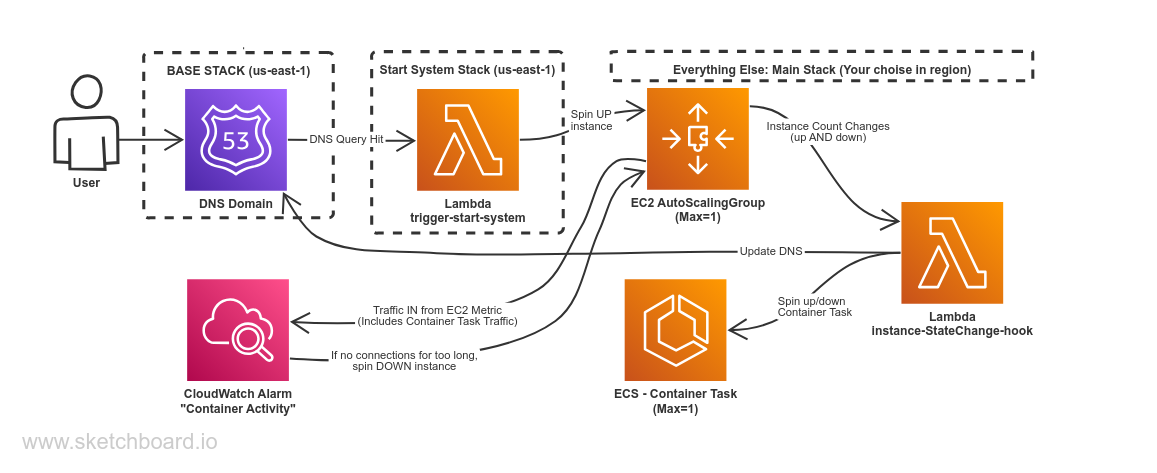
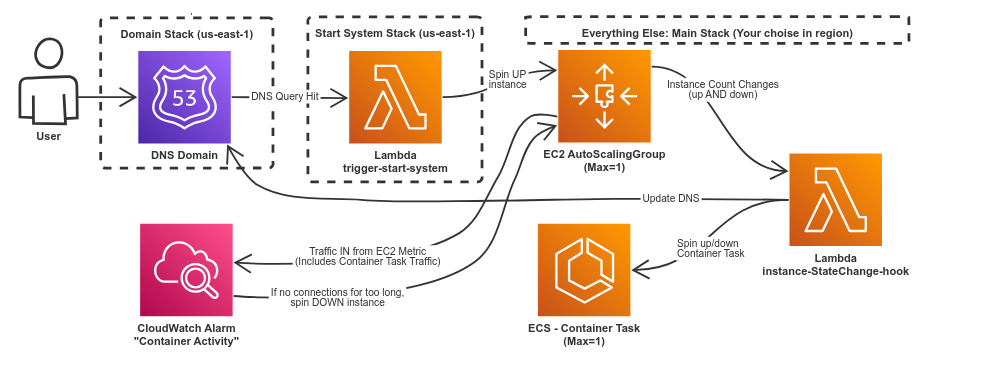
README updates to the hosted zone change

Changed region(s): [[0.0, 0.0297, 0.9375, 0.9514]]

diff --git a/app.py b/app.py
@@ -116,7 +116,7 @@ if file_path:
 
     start_system_stack = StartSystemStack(
         app,
-        f"{application_id}-{container_id_alpha}-StartSystemStack",
+        f"{application_id}-{container_id_alpha}-StartSystem",
         description="Everything for spinning up the container when someone connects.",
         cross_region_references=True,
         env=us_east_1_env,

diff --git a/ContainerManager/README.md b/ContainerManager/README.md
@@ -1,16 +1,14 @@
 # Container Manager
 
-This is designed so you only need one base stack that you deploy first, then you can deploy any number of leaf stacks on it. This lets you modify one leaf/container stack, without affecting the rest, and still have shared resources to reduce cost/complexity where appropriate.
+This is designed so you only need one base stack that you deploy first, then you can deploy any number of "leaf stack groups" on it. (A single leaf-stack-group is for managing a single container). This lets you modify one leaf-stack-group, without affecting the rest, and still have shared resources to reduce cost/complexity where appropriate.
 
-**Note**: The word `Stack` is overloaded here. Both the "base" and "leaf" stacks each contain two stacks inside them (one in a region of your choice, and one in `us-east-1` for Route53). There's just no better word, "app" is the entire project.
-
-- The [./leaf_stack](./leaf_stack/README.md) is what runs a single container. One `leaf_stack` for one container.
-- The [./base_stack](./base_stack/README.md) is common architecture that different containers can share (i.e VPC, HostedZone). Multiple "Leaf Stacks" can point to the same "Base Stack".
+- The [./leaf_stack_group](./leaf_stack_group/README.md) is what runs a single container. One `leaf_stack_group` for one container. It contains **three** stacks in the group.
+- The [./base_stack](./base_stack/README.md) is common architecture that different containers can share (i.e VPC, HostedZone). Multiple "Leaf Stack Groups" can point to the same "Base Stack".
 - The [./utils](./utils/README.md) are functions that don't fit in the other two. Mainly config readers/parsers.
 
 Click here to jump to '[Base Stack Config Options](#base-stack-config-options)'. It's the last section, since it's the longest.
 
-## Leaf Stack Summary
+## Leaf Stack Group Summary
 
 ![picture](/Resources/AWS-ContainerManager_Basic_Diagram.png)
 <!-- Original board: https://sketchboard.me/REucJJtlrBCi#/ -->
@@ -19,7 +17,7 @@ Click here to jump to '[Base Stack Config Options](#base-stack-config-options)'.
 
 The system is designed all around the Auto Scaling Group (ASG). This way, if the ASG spins up in any way (DNS query comes in, or you change the desired_count in the console), everything spins up around it. If a alarm triggers, it just has to spin the ASG back down and everything will naturally follow suit.
 
-See the [leaf_stack's README.md](./leaf_stack/README.md) for more info.
+See the [leaf_stack_group's README.md](./leaf_stack_group/README.md) for more info.
 
 ## Moving Variables between the Stacks (cross-region)
 

diff --git a/ContainerManager/leaf_stack_group/README.md b/ContainerManager/leaf_stack_group/README.md
@@ -1,12 +1,14 @@
-# Leaf Stack - Container Manager Core
+# Leaf Stack Group - Container Manager Core
 
-This is the core of the Container Manager. It's the AWS Architecture that runs the container, along with spinning it up/down when needed. Multiple `leaf_stack`'s can be deployed together, one for each each container.
+This is the core of the Container Manager. It's the AWS Architecture that runs the container, along with spinning it up/down when needed. Multiple `leaf_stack_group`'s can be deployed together, one for each each container.
+
+Each `leaf_stack_group` is made up of three stacks, working together to manage a single container.
 
 A simple TLDR diagram can be found back one level in [../README.md](../README.md#leaf-stack-summary)
 
 ## CDK Architecture
 
-How the leaf stack links together and works:
+How the leaf stack links together and work (View this in GitHub directly for zoom controls and everything):
 
 ```mermaid
 %% Solid docs on Mermaid: https://content.mermaidchart.com/diagram-syntax/flowchart/
@@ -24,17 +26,17 @@ flowchart TD
 
     user-connects["🧑🤝🧑 User Connects 🧑🤝🧑"]
 
-    %% BASE STACK DOMAIN SUBGRAPH
-    subgraph base_stack_domain["**BaseStack-Domain**"]
-        subgraph base_stack_domain_inner["(us-east-1)"]
+    %% DOMAIN STACK SUBGRAPH
+    subgraph domain_stack["**domain_stack.py**"]
+        subgraph domain_stack_inner["(us-east-1)"]
             sub-hosted-zone[Sub Hosted Zone]
             query-log-group[Query Log Group]
 
             sub-hosted-zone --" Writes Log "--> query-log-group
         end
     end
-    class base_stack_domain blue_outer
-    class base_stack_domain_inner blue_inner
+    class domain_stack blue_outer
+    class domain_stack_inner blue_inner
     user-connects --" DNS Query "--> sub-hosted-zone
 
     %% START SYSTEM STACK SUBGRAPH
@@ -140,9 +142,11 @@ flowchart TD
 
 ## Stack Summaries
 
-### [Base Stack Domain](../base_stack/README.md) (Blue)
+Below are the three "stacks" part of the "leaf_stack_group" that are deployed to run a single container. It's also the order they're deployed, to fix a circular dependency issue with the regions specific pieces have to be.
 
-This is apart of the base stack, but heavily used here. Follow that link to read more.
+### [./domain_stack.py](./domain_stack.py) Stack (Blue)
+
+This stack sets up the Hosted Zone and DNS for the leaf_stack_group. This stack MUST be deployed to `us-east-1` since that's where AWS houses Route53.
 
 ### [./NestedStacks](./NestedStacks/) Leaf Stack (Red)
 

diff --git a/ContainerManager/base_stack/README.md b/ContainerManager/base_stack/README.md
@@ -2,16 +2,11 @@
 
 This is common architecture between leaf-stacks, combined to reduce costs and complexity.
 
-## Base Stack Main ([main.py](./main.py))
+## Base Stack ([./main.py](./main.py))
 
 Deployed to the same region as you want to run the containers from.
 
 - **VPC**: The overall network for all the containers and EFS. We used a public VPC, because private cost ~$32/month per subnet (because of the NAT). WITH ec2 costs, I want to shoot for less than $100/year with solid usage.
 - **SSH Key Pair**: The key pair to SSH into the EC2 instances. Keeping it here lets you get into all the leaf_stacks without having to log into AWS each time you deploy a new leaf. If you destroy and re-build the leaf, this keeps the key consistent too.
 - **SNS Notify Logic**: Designed for things admin would care about. This tells you whenever the instance spins up or down, if it runs into errors, etc.
-
-## Base Stack Domain ([domain.py](./domain.py))
-
-Deployed to `us-east-1`, since Route53 logs can only go there.
-
-- **Route53 HostedZone**: The base domain for all the leaf stacks. This is where the DNS records will be created for each leaf stack. The leaf stacks add their DNS record to this, and watch this log group for when their specific DNS record gets a query.
+- **Hosted Zone**: *Imports* a hosted zone into this stack. This way you only need one domain, and sub-domains are created off it. Each LeafStackGroup will still need to create their own HostedZone, because otherwise it can only hold a max of two sub-domains. (We use a log-group subscription filter to know when to spin up on a DNS hit, and you can only have two per log group. And you can only have one log group per HostedZone, which also has to exist BEFORE the HostedZone is created...).
